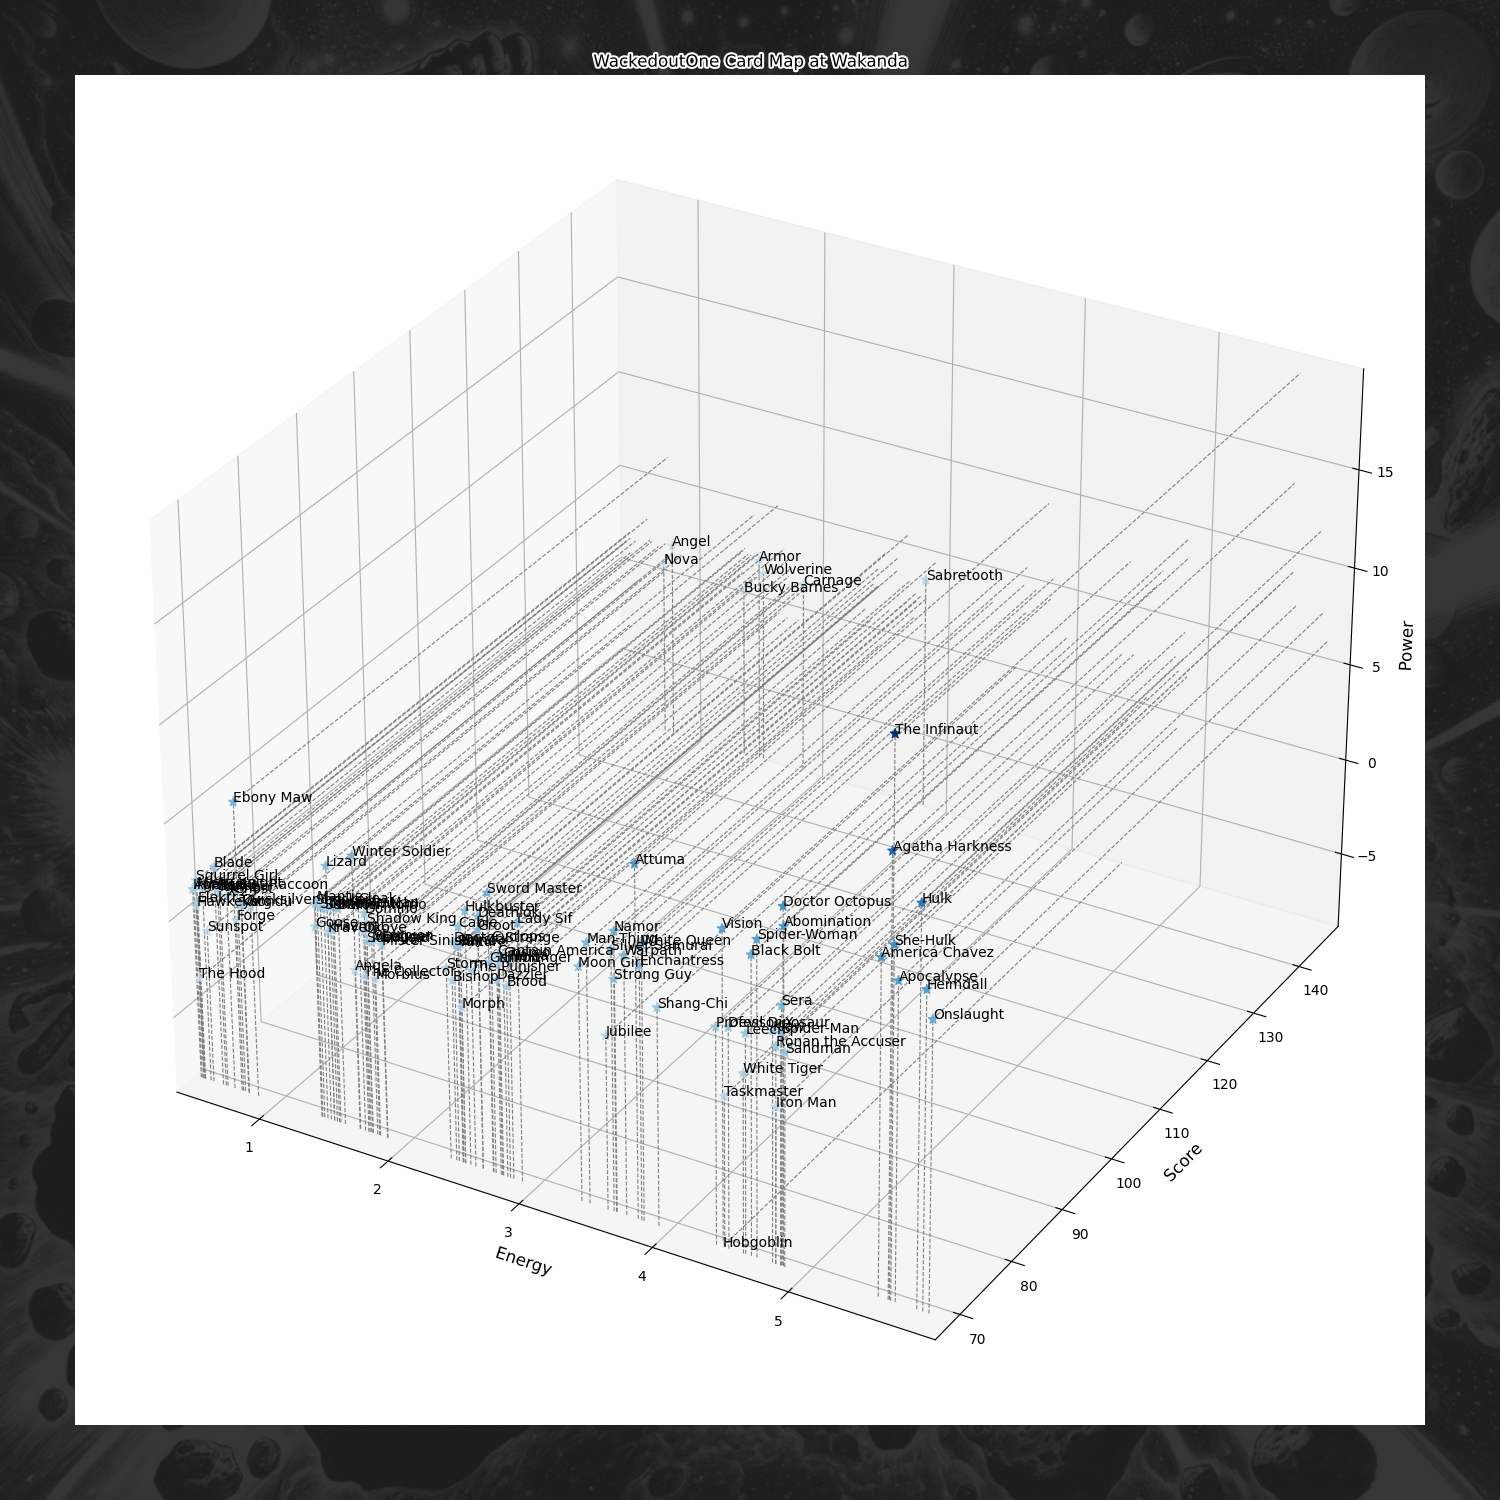
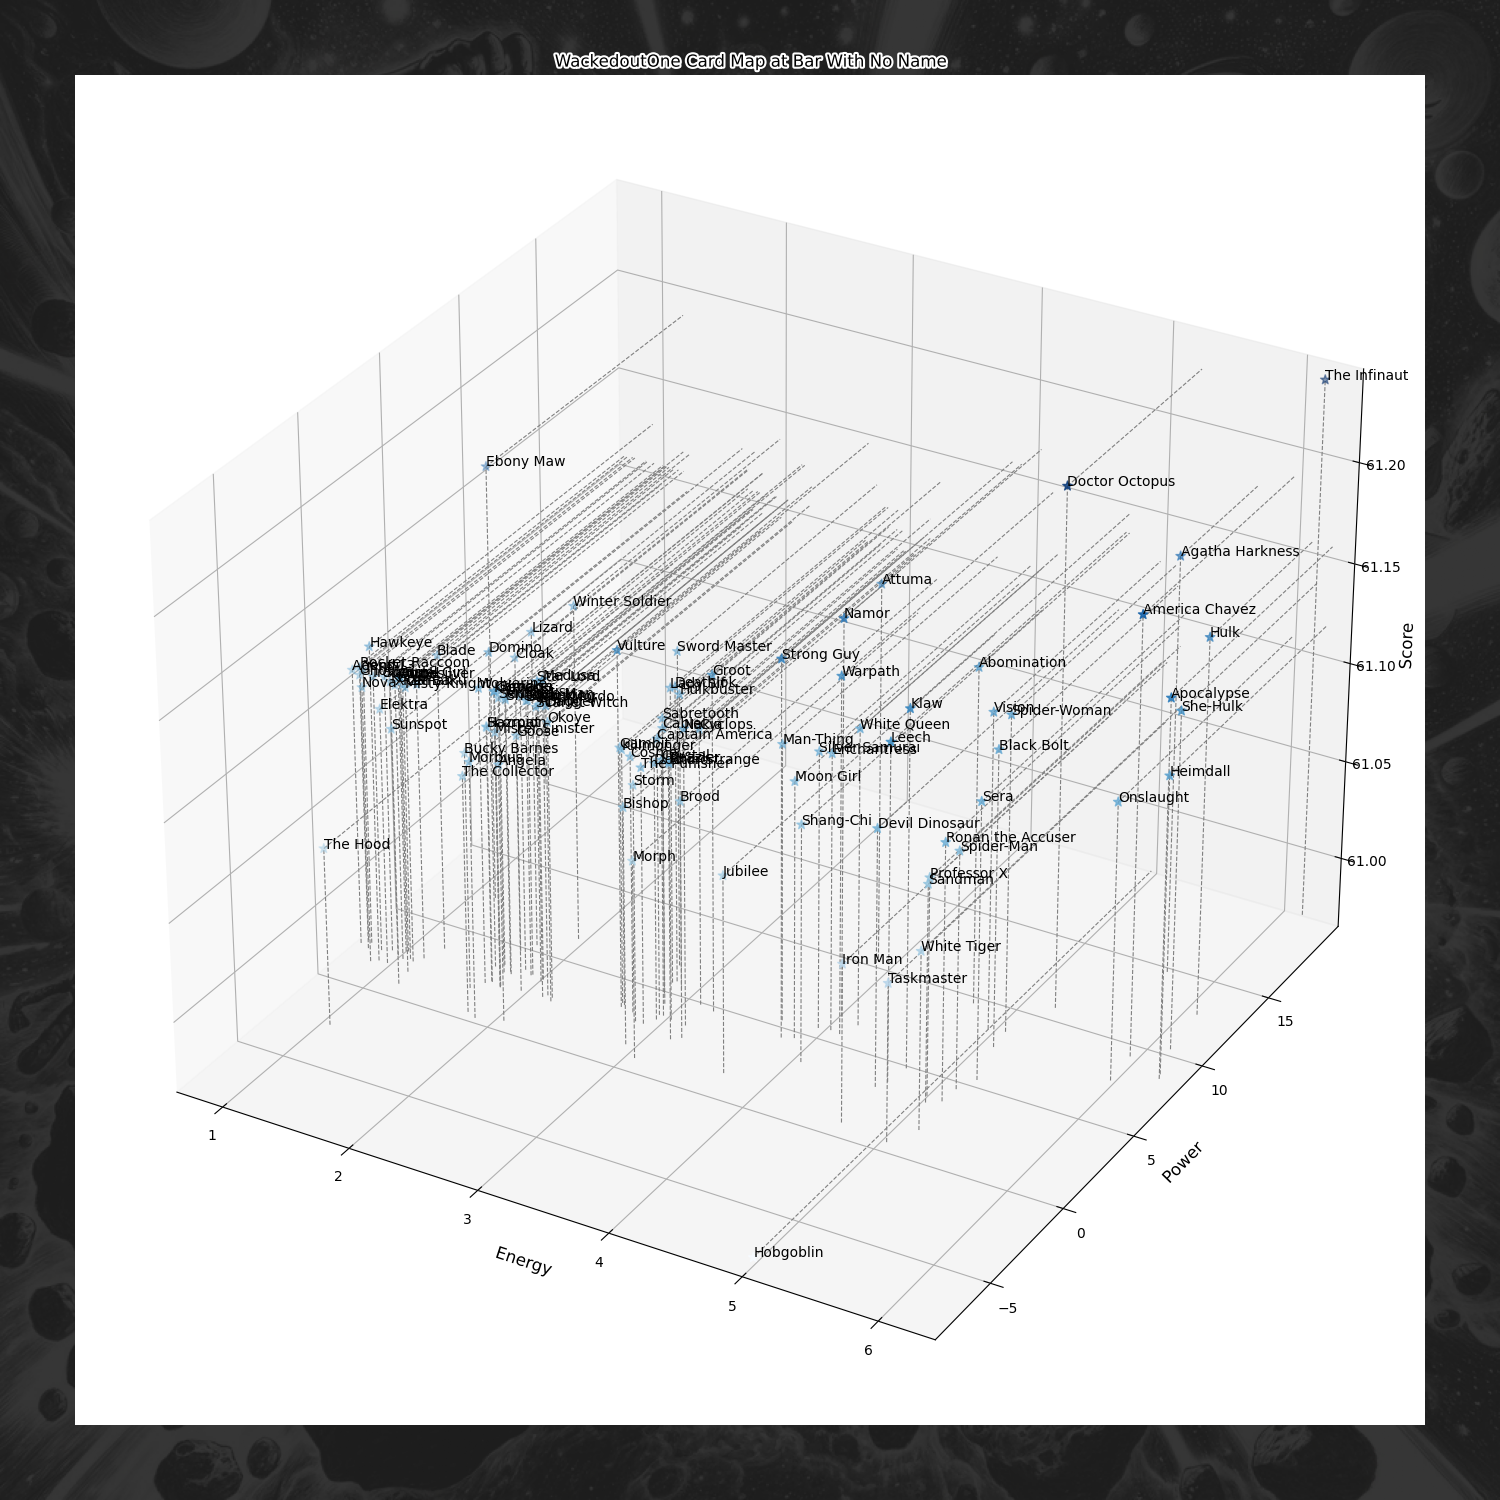
Fixed graphs.

diff --git a/modules/menu/graphs_menu.py b/modules/menu/graphs_menu.py
@@ -84,8 +84,8 @@ def create_card_location_wave_map(player_data, location_name, card_names, allow_
     for card in cards_data:
         score = snap_base.calculate_compatibility_score(location_name, card["Card"])
         scores.append(score)
-        energy.append(card['Cost'] + random.uniform(-0.6, 0.0))
-        power.append(card['Power'] + random.uniform(-0.6, 0.0))
+        energy.append(card['Cost'] + random.uniform(-0.3, 0.3))
+        power.append(card['Power'] + random.uniform(-0.3, 0.3))
         labels.append(card['Card'])  # Assuming the name of the card is stored in 'Card'
 
     # Create the figure with an empty graph background
@@ -100,7 +100,7 @@ def create_card_location_wave_map(player_data, location_name, card_names, allow_
     ax = fig.add_axes([0.05, 0.05, 0.9, 0.9], projection='3d', frame_on=False)  # [left, bottom, width, height]
 
     # Plot the wave map with blue to light blue colors based on scores
-    sc = ax.scatter(energy, scores, power, c=power, cmap='Blues', marker='*', s=50)  # Set s=50 for larger points
+    sc = ax.scatter(energy, power, scores, c=scores, cmap='Blues', marker='*', s=50)  # Set s=50 for larger points
 
     # Add titles and labels with path effects and white transparent color
     title = ax.set_title(f"{player_data['Name']} Card Map at {location_name}")
@@ -108,26 +108,26 @@ def create_card_location_wave_map(player_data, location_name, card_names, allow_
 
 
     ax.set_xlabel('Energy', fontsize=12).set_path_effects(path_effects_shadow(3, 1, 'white'))
-    ax.set_zlabel('Power', fontsize=12).set_path_effects(path_effects_shadow(3, 1, 'white'))
-    ax.set_ylabel('Score', fontsize=12).set_path_effects(path_effects_shadow(3, 1, 'white'))
+    ax.set_zlabel('Score', fontsize=12).set_path_effects(path_effects_shadow(3, 1, 'white'))
+    ax.set_ylabel('Power', fontsize=12).set_path_effects(path_effects_shadow(3, 1, 'white'))
 
     # Increase tick label size for better visibility
     ax.tick_params(axis='both', which='major', labelsize=10)
 
     # Draw lines from points to base and back of the graph
     for e, p, s in zip(energy, scores, power):
-        ax.plot([e, e], [p, p], [min(power), s], c='gray', linestyle='--', linewidth=0.8)
-        ax.plot([e, e], [p, max(scores)], [s, s], c='gray', linestyle='--', linewidth=0.8)
+        ax.plot([e, e], [s, s], [min(scores), p], c='gray', linestyle='--', linewidth=0.8)
+        ax.plot([e, e], [s, max(power)], [p, p], c='gray', linestyle='--', linewidth=0.8)
 
     # Add labels for the points if less than 13 items
     if len(labels) < 1300:
-        for e, p, s, label in zip(energy, scores, power, labels):
+        for e, p, s, label in zip(energy, power, scores, labels):
             ax.text(e, p, s, label)
 
     # Set z-axis limits to min and max scores
     ax.set_xlim(min(energy), max(energy))
-    ax.set_ylim(min(scores), max(scores))
-    ax.set_zlim(min(power), max(power))
+    ax.set_ylim(min(power), max(power))
+    ax.set_zlim(min(scores), max(scores))
 
     # Save the wave map with a timestamp
     timestamp = datetime.now().strftime("%Y%m%d%H%M%S")
